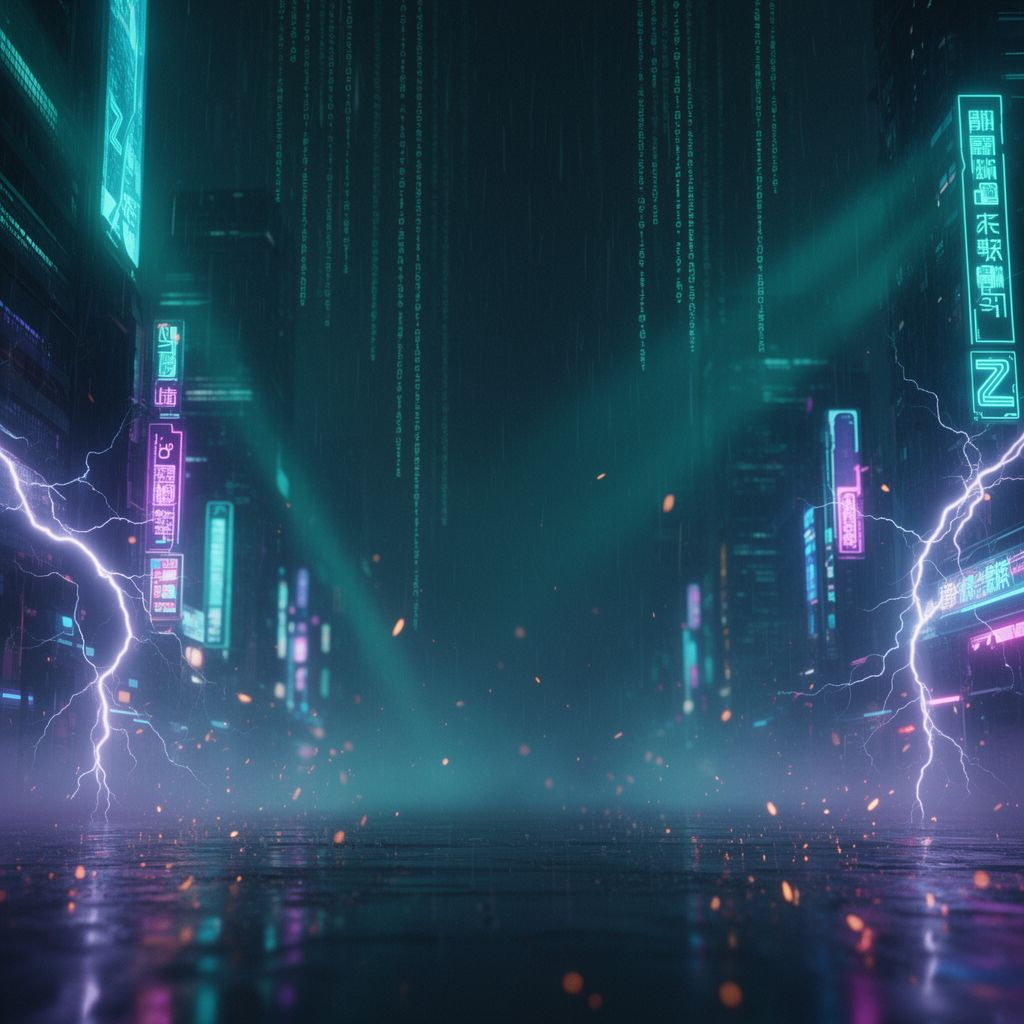
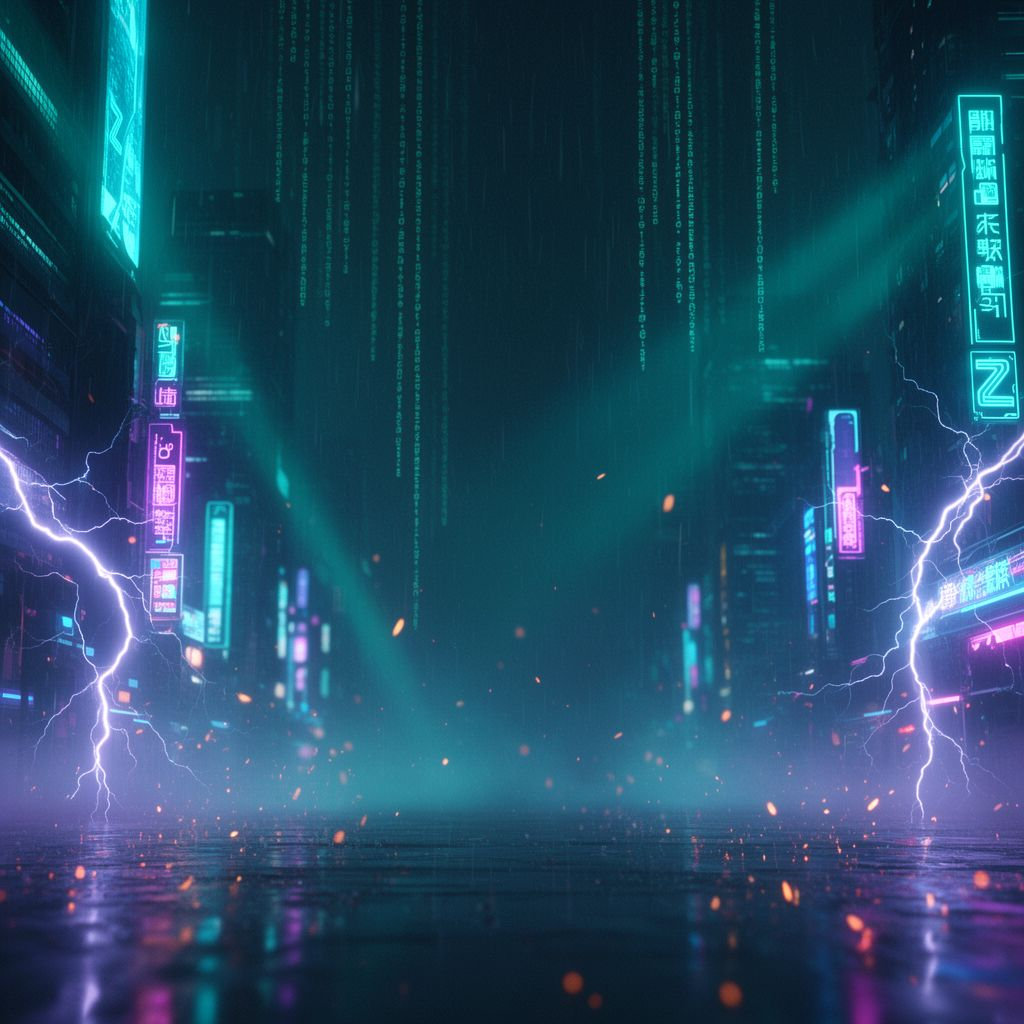
perf(ui): animasi 100% GPU-composited untuk laptop low-end
- Aurora & grid login: background-position (repaint mahal) -> transform translate3d
- Filter saturate/brightness CSS dihapus, efek di-bake langsung ke bg-city.jpg
- Semua animasi kini transform/opacity saja: mulus di iGPU lawas

diff --git a/src/app/globals.css b/src/app/globals.css
@@ -50,7 +50,6 @@ body {
   inset: -6%;
   z-index: -3;
   background: url("/bg-city.jpg") center 30% / cover no-repeat;
-  filter: saturate(1.2) brightness(1.08);
   animation: kenburns 36s ease-in-out infinite;
   will-change: transform;
 }
@@ -74,25 +73,25 @@ body {
     radial-gradient(55% 45% at 50% 42%, rgba(45, 212, 191, 0.1), transparent 55%),
     #05070d;
 }
-/* lantai grid perspektif yang mengalir */
+/* lantai grid perspektif yang mengalir — via transform (GPU) */
 @keyframes gridflow {
-  from { background-position: 0 0; }
-  to   { background-position: 0 44px; }
+  from { transform: perspective(420px) rotateX(62deg) translateY(-44px); }
+  to   { transform: perspective(420px) rotateX(62deg) translateY(0); }
 }
 .scene-portal::before {
   content: "";
   position: absolute;
   left: -20%;
   right: -20%;
-  bottom: -6%;
-  height: 46%;
+  bottom: -12%;
+  height: 52%;
   background-image:
     linear-gradient(rgba(45, 212, 191, 0.16) 1px, transparent 1px),
     linear-gradient(90deg, rgba(139, 92, 246, 0.14) 1px, transparent 1px);
   background-size: 44px 44px;
-  transform: perspective(420px) rotateX(62deg);
   transform-origin: top;
   animation: gridflow 3.2s linear infinite;
+  will-change: transform;
   -webkit-mask-image: linear-gradient(transparent, #000 35%);
   mask-image: linear-gradient(transparent, #000 35%);
 }
@@ -318,19 +317,20 @@ body {
 
 /* ================= Animasi landing (CSS murni — jalan di HP & laptop) ===== */
 
-/* Latar aurora bergerak pelan */
+/* Latar aurora bergerak pelan — via transform (GPU), ringan di laptop lawas */
 @keyframes aurora {
-  0%   { background-position: 0% 50%; }
-  50%  { background-position: 100% 50%; }
-  100% { background-position: 0% 50%; }
+  from { transform: translate3d(-5%, -4%, 0); }
+  to   { transform: translate3d(5%, 4%, 0); }
 }
 .anim-aurora {
+  position: absolute;
+  inset: -30%;
   background:
     radial-gradient(60% 80% at 20% 10%, rgba(45, 212, 191, 0.10), transparent 60%),
     radial-gradient(50% 70% at 80% 20%, rgba(139, 92, 246, 0.12), transparent 60%),
     radial-gradient(70% 60% at 50% 100%, rgba(45, 212, 191, 0.07), transparent 60%);
-  background-size: 200% 200%;
-  animation: aurora 18s ease-in-out infinite;
+  animation: aurora 18s ease-in-out infinite alternate;
+  will-change: transform;
 }
 
 /* Bola cahaya blur yang melayang */

diff --git a/src/server/memories.ts b/src/server/memories.ts
@@ -15,7 +15,7 @@ const EXTRACT_PROMPT =
   "yang berguna diingat jangka panjang (nama, pekerjaan/studi, lokasi, preferensi, " +
   "proyek yang sedang dikerjakan, orang penting). ABAIKAN: pertanyaan, perintah tugas, " +
   "opini sesaat, isi lampiran/dokumen. Jawab HANYA daftar fakta, satu per baris, " +
-  "maksimal 3 baris, bahasa Indonesia ringkas (mis. \"Nama pengguna: Rizal\"). " +
+  "maksimal 3 baris, bahasa Indonesia ringkas (mis. \"Nama pengguna: Andi\"). " +
   "Bila tidak ada fakta personal baru, jawab persis: NONE";
 
 export async function extractMemories(userId: string, userText: string): Promise<void> {

diff --git a/src/server/providers/comfyui.ts b/src/server/providers/comfyui.ts
@@ -6,7 +6,7 @@ import type { ChatRequest, ProviderGenerator } from "./contract";
 /**
  * Provider ComfyUI (README: generasi visual — kini gambar/video/audio).
  * - Endpoint diatur ZALTR_COMFYUI_URL (kosong = provider tampil disabled).
- * - Instalasi kampus memakai model SPLIT (bukan checkpoint tunggal):
+ * - Instalasi server GPU memakai model SPLIT (bukan checkpoint tunggal):
  *   FLUX.2 dev (UNET+CLIP+VAE+LoRA turbo), Wan 2.2 (video), ACE-Step (audio).
  *   Karena itu katalog = daftar KURASI (id stabil), bukan hasil scan file.
  * - Alur: POST /prompt -> poll /history/<id> -> unduh /view -> persist MinIO

diff --git a/src/components/settings-view.tsx b/src/components/settings-view.tsx
@@ -54,8 +54,8 @@ export function SettingsView() {
       <section className="space-y-2">
         <h2 className="text-sm font-semibold">Instruksi pribadi</h2>
         <p className="text-xs text-muted">
-          Ala ChatGPT Custom Instructions — misal: “Panggil saya Rizal. Saya mahasiswa
-          informatika. Jawab ringkas dan beri contoh kode Python bila relevan.”
+          Ala ChatGPT Custom Instructions — misal: “Panggil saya Andi. Saya
+          developer web. Jawab ringkas dan beri contoh kode Python bila relevan.”
         </p>
         <textarea
           value={instructions}

diff --git a/src/app/page.tsx b/src/app/page.tsx
@@ -26,7 +26,7 @@ export default async function WelcomePage() {
       <div className="scene-city" aria-hidden />
       <div className="scene-city-veil" aria-hidden />
       <div className="fx-layer" aria-hidden>
-        <div className="anim-aurora absolute inset-0" />
+        <div className="anim-aurora" />
         <div className="orb left-[-80px] top-[8%] h-72 w-72 bg-accent-a/40" />
         <div className="orb right-[-60px] top-[38%] h-80 w-80 bg-accent-b/40 [animation-delay:-5s]" />
         <div className="orb bottom-[-110px] left-[28%] h-96 w-96 bg-pink-500/25 [animation-delay:-9s]" />

diff --git a/README.md b/README.md
@@ -28,8 +28,8 @@ Isolasi dari proyek lain di server ini: project `zaltr`, network `zaltr-net`, vo
 ## Web Preview (SUDAH JALAN, 2026-07-30)
 
 Aplikasi web kini berjalan **permanen sebagai container** `zaltr-web` (Next.js standalone,
-`restart: unless-stopped`, Docker enabled saat boot) — hidup 24/7 di server kampus tanpa
-terminal/SSH: **http://localhost:46300** atau **http://10.33.33.11:46300** dari jaringan kampus.
+`restart: unless-stopped`, Docker enabled saat boot) — hidup 24/7 di server GPU tanpa
+terminal/SSH: **http://localhost:46300** (atau IP server pada jaringan lokal).
 
 ```bash
 bin/zaltrctl deploy-web          # migrasi DB + build image + start container web
@@ -111,7 +111,7 @@ Produk ini dirancang sebagai **modular monolith**: sederhana untuk dibangun dan 
 - **Wordmark:** ZALTR.AI
 - **Nama folder/repository:** `zaltr-ai`
 - **Domain utama yang diinginkan:** `zaltr.ai`
-- **Asal nama:** unsur `zal` diambil secara halus dari Rizal; `tr` dapat merepresentasikan transformer atau router; `.ai` menegaskan kategori produk.
+- **Asal nama:** gabungan suku kata pendek yang ringkas, mudah diingat, dan terdengar teknologis; `tr` dapat merepresentasikan transformer atau router; `.ai` menegaskan kategori produk.
 
 > Ketersediaan domain pada saat perencanaan bukan jaminan kepemilikan. Domain dan merek perlu diamankan serta diperiksa kembali sebelum peluncuran publik.
 
